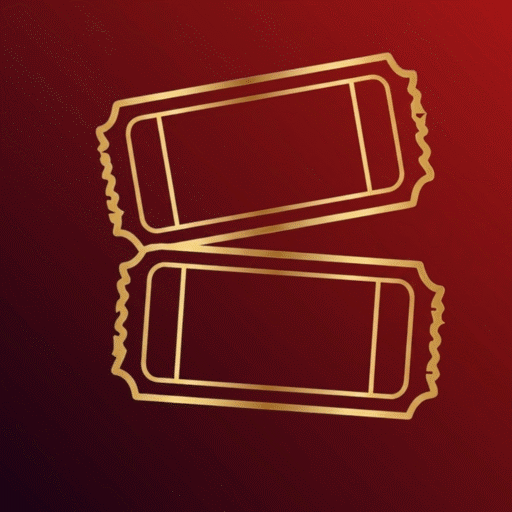
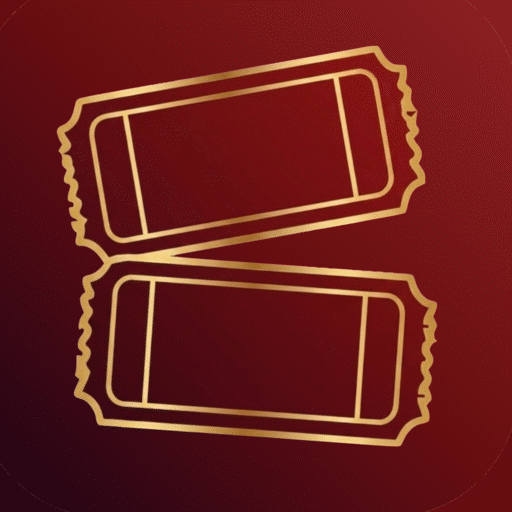
Icona: ultima versione, oro piu caldo
Zoom moderato per non tagliare i biglietti, schegge d'angolo riempite
con il colore adiacente invece di un ritaglio aggressivo.

diff --git a/index.html b/index.html
@@ -6,13 +6,13 @@
 <title>CINETECA — la mia biblioteca cinematografica</title>
 <meta name="theme-color" content="#05060B">
 <link rel="manifest" href="manifest.webmanifest">
-<link rel="apple-touch-icon" sizes="180x180" href="assets/icon-180.png?v=202608010736">
-<link rel="icon" type="image/png" sizes="192x192" href="assets/icon-192.png?v=202608010736">
-<link rel="icon" type="image/png" sizes="512x512" href="assets/icon-512.png?v=202608010736">
+<link rel="apple-touch-icon" sizes="180x180" href="assets/icon-180.png?v=202608011245">
+<link rel="icon" type="image/png" sizes="192x192" href="assets/icon-192.png?v=202608011245">
+<link rel="icon" type="image/png" sizes="512x512" href="assets/icon-512.png?v=202608011245">
 <meta name="apple-mobile-web-app-title" content="Cineteca">
 <meta name="apple-mobile-web-app-capable" content="yes">
 <meta name="apple-mobile-web-app-status-bar-style" content="black-translucent">
-<link rel="stylesheet" href="css/styles.css?v=202608010736">
+<link rel="stylesheet" href="css/styles.css?v=202608011245">
 </head>
 <body>
 
@@ -123,18 +123,18 @@
   </p>
 </footer>
 
-<script src="js/store.js?v=202608010736"></script>
-<script src="js/format.js?v=202608010736"></script>
-<script src="js/charts.js?v=202608010736"></script>
-<script src="js/consiglia.js?v=202608010736"></script>
-<script src="js/perte.js?v=202608010736"></script>
-<script src="js/notizie.js?v=202608010736"></script>
-<script src="js/stats.js?v=202608010736"></script>
-<script src="js/detail.js?v=202608010736"></script>
-<script src="js/novita.js?v=202608010736"></script>
+<script src="js/store.js?v=202608011245"></script>
+<script src="js/format.js?v=202608011245"></script>
+<script src="js/charts.js?v=202608011245"></script>
+<script src="js/consiglia.js?v=202608011245"></script>
+<script src="js/perte.js?v=202608011245"></script>
+<script src="js/notizie.js?v=202608011245"></script>
+<script src="js/stats.js?v=202608011245"></script>
+<script src="js/detail.js?v=202608011245"></script>
+<script src="js/novita.js?v=202608011245"></script>
 <script src="https://cdn.jsdelivr.net/npm/@supabase/supabase-js@2"></script>
-<script src="js/cloud-config.js?v=202608010736"></script>
-<script src="js/app.js?v=202608010736"></script>
-<script src="js/cloud.js?v=202608010736"></script>
+<script src="js/cloud-config.js?v=202608011245"></script>
+<script src="js/app.js?v=202608011245"></script>
+<script src="js/cloud.js?v=202608011245"></script>
 </body>
 </html>

diff --git a/sw.js b/sw.js
@@ -8,7 +8,7 @@
    quando la rete non c'è.
    ══════════════════════════════════════════════════════════ */
 
-const CACHE = 'cineteca-v202608010736';
+const CACHE = 'cineteca-v202608011245';
 const SHELL = [
   './', './index.html', './css/styles.css',
   './js/store.js', './js/format.js', './js/charts.js',
